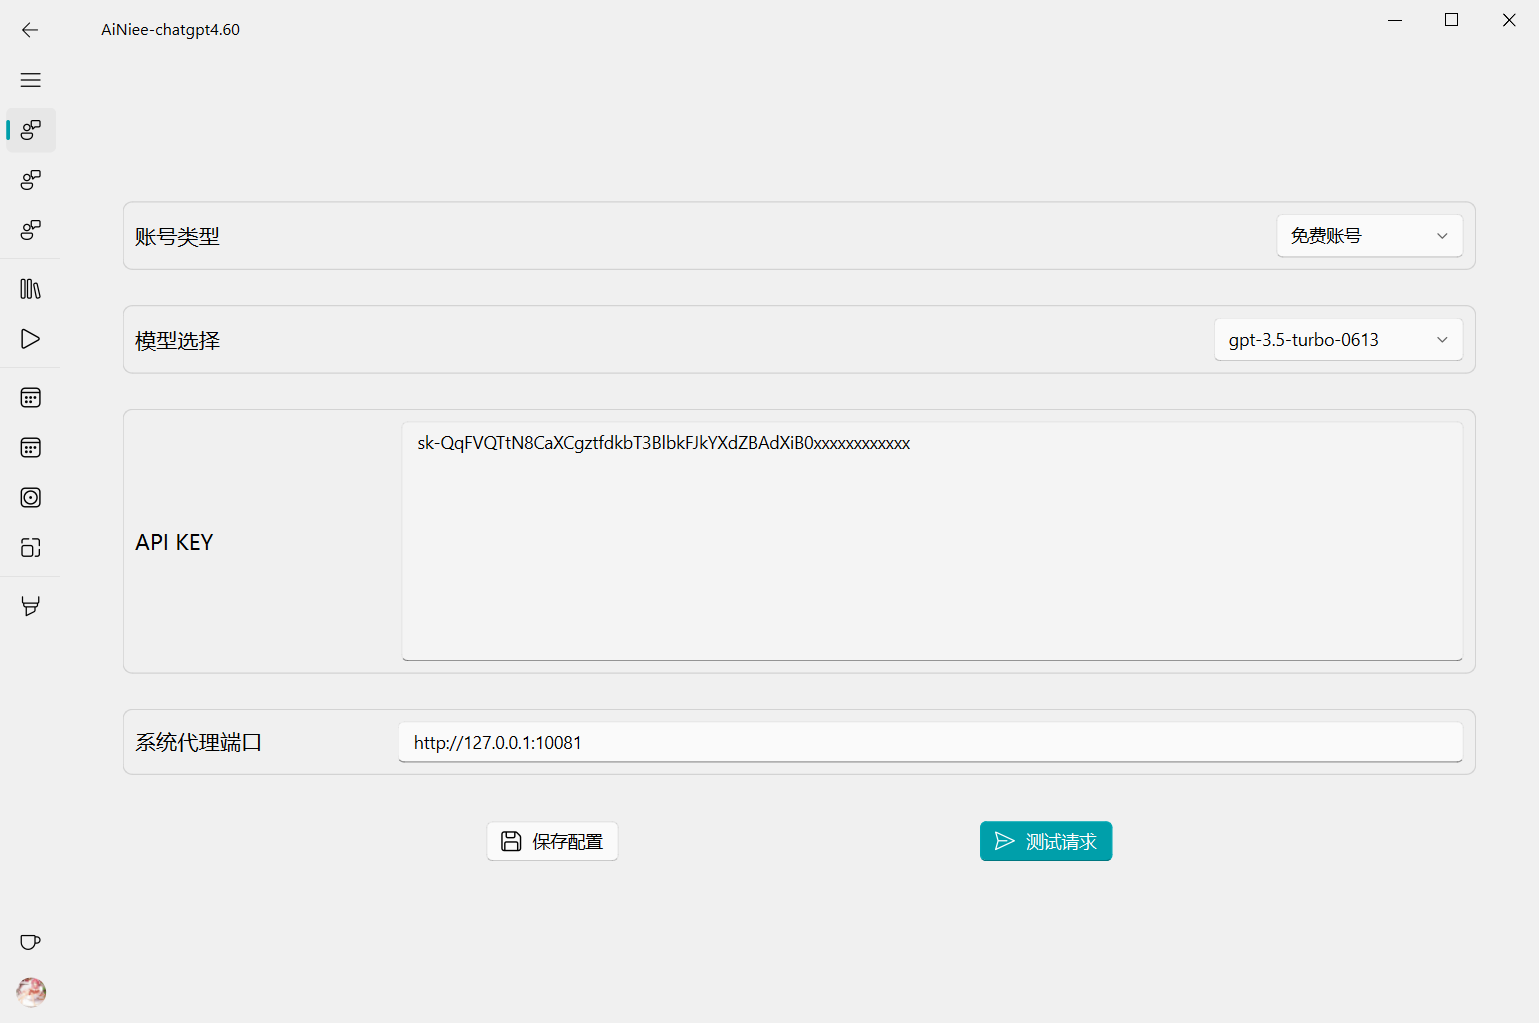
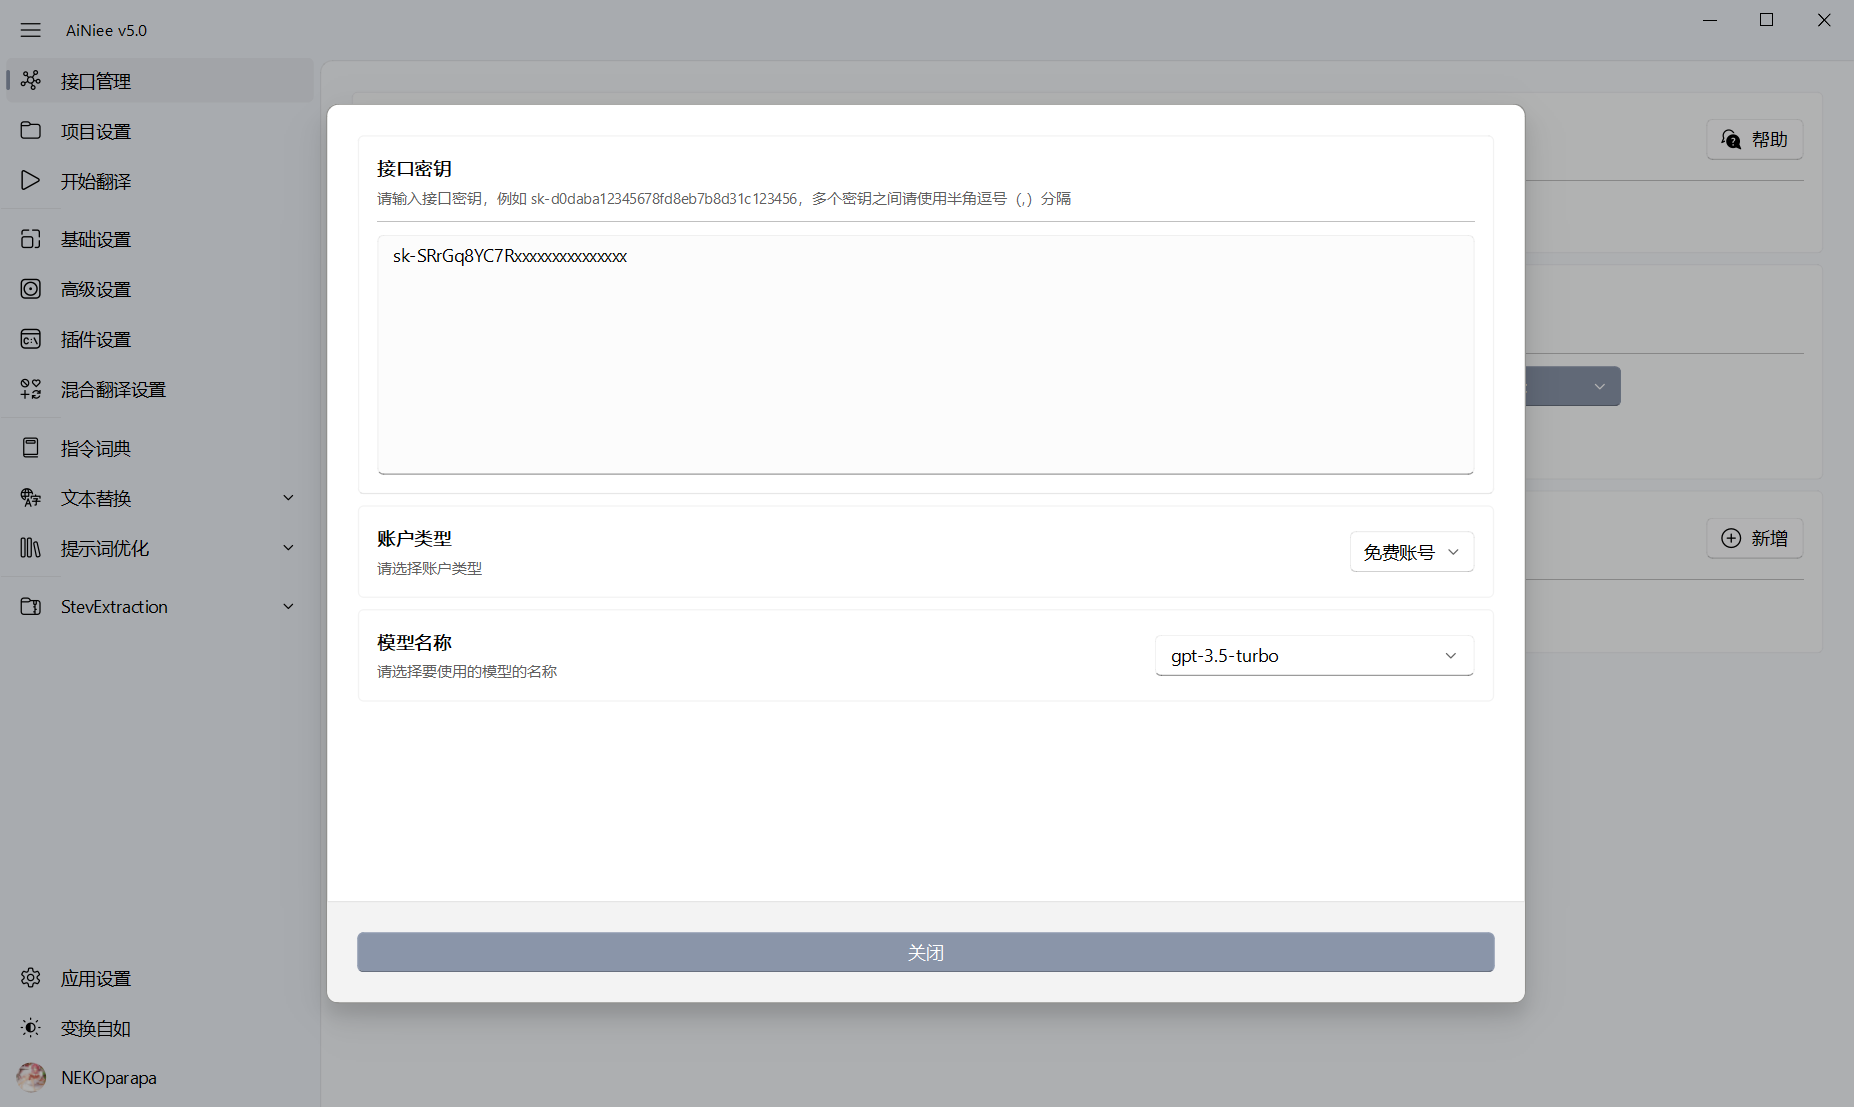
更新说明

diff --git a/README.md b/README.md
@@ -83,7 +83,7 @@
 <details>
 <summary>
 
-### 账号配置
+### 接口管理
 </summary>
 
 *  OpenAI官方配置示例:
@@ -91,16 +91,15 @@
   
     >`账号类型`: 新注册的5刀余额账号为免费账号，有各种限制，单号速度不快；付费账号是有过付费记录，且达到一些条件才会升级<br>
   
-    > `模型选择`: 默认是GPT3.5模型，请自行了解模型之间的区别后再进行更改。<br>
+    > `模型选择`: 请自行了解模型之间的区别后再进行更改。<br>
   
     >`API KEY`: 填入由OpenAi账号生成的api_key<br>
   
-    >`代理端口`: 可以不输入,如果需要设置代理时,再则填入http://<代理ip>:<代理端口>,示例：`http://127.0.0.1:10081`<br>
 
 *  代理平台配置示例:
     > <img src="https://raw.githubusercontent.com/NEKOparapa/AiNiee-chatgpt/main/Example%20image/代理账号设置.png" width="600" height="400"><br> 
     
-    >`请求地址`: 填入国内代理平台提供的请求地址,示例：`https://api.openai-sb.com` ,不要在后面单带一个`/`
+    >`请求地址`: 填入国内代理平台提供的请求地址,示例：`https://api.XXXXX.com` ,不要在后面单带一个`/`
 
     >`自动补全`: 会在上面输入的请求地址自动补全“v1”
     
@@ -110,7 +109,6 @@
 
     >`API KEY`: 填入国内代理平台给你生成的API KEY<br>
 
-    >`代理端口`: 可以不输入,如果需要设置代理时,再则填入http://<代理ip>:<代理端口>,示例：`http://127.0.0.1:10081`<br>
 
     > <img src="https://raw.githubusercontent.com/NEKOparapa/AiNiee-chatgpt/main/Example%20image/代理账号速率价格设置.png" width="600" height="400"><br> 
 
@@ -120,9 +118,6 @@
   
     >`每分钟tokens数`: TPM (tokens per minute)每分钟向openai发送的tokens总数（类似字符总数）
 
-    >`请求输入价格`: 根据代理平台设定的价格进行设置，单位是每1k tokens
-    
-    >`回复输出价格`: 根据代理平台设定的价格进行设置，单位是每1k tokens
 
 *  SakuraLLM配置:
     > <img src="https://raw.githubusercontent.com/NEKOparapa/AiNiee-chatgpt/main/Example%20image/Sakura/SakuraLLM.png" width="600" height="400"><br>
@@ -136,33 +131,36 @@
 <details>
 <summary> 
 
-### 翻译配置
+### 项目设置
 </summary>
 
 *   配置示例:<br>
 
     ><img src="https://raw.githubusercontent.com/NEKOparapa/AiNiee-chatgpt/main/Example%20image/翻译设置/基础设置.png" width="600" height="400"><br>
     
-    >`翻译项目`: 需要翻译的原文文件<br>
+    >`项目类型`: 需要翻译的原文文件<br>
 
-    >`翻译平台`: 翻译文本时希望使用的平台<br>
+    >`接口名称`: 翻译文本时希望使用的平台<br>
 
-    >`文本源语言`: 根据你需要翻译游戏的语言选择相应的源语言<br>
+    >`原文语言`: 根据你需要翻译游戏的语言选择相应的源语言<br>
 
-    >`文本目标语言`: 你希望翻译成的语言<br>
+    >`译文语言`: 你希望翻译成的语言<br>
   
     >`输入文件夹`: 选择你需要翻译的原文文件,把原文尽量放在一个干净的文件夹内，文件夹内没有其他文件，因为会读取该文件夹内所有相关的文件，包括子文件<br>
   
     >`输出文件夹`: 选择翻译后文件的存储文件夹，请不要和输入文件夹一个路径<br>
 
+    >`自动备份缓存文件`: 会自动备份缓存文件到输出文件夹，高并发情况下会影响速度<br>
 
     ><img src="https://raw.githubusercontent.com/NEKOparapa/AiNiee-chatgpt/main/Example%20image/翻译设置/任务设置.png" width="600" height="400"><br>
 
-    >`每次翻译行数`: 每次请求翻译的文本行数。行数设置越大,整体的翻译效果会更好,上下文更加流畅,但每次请求回复速度会越慢,回复的内容越容易出错，请根据模型类型来进行设置。<br>
+    >`行数切分模式`: 每次请求翻译的文本行数。行数设置越大,整体的翻译效果会更好,上下文更加流畅,但每次请求回复速度会越慢,回复的内容越容易出错，请根据模型类型来进行设置。<br>
 
-    >`每次翻译tokens数`: 每次请求翻译的文本tokens数，整体效果和行数模式差不多，只不过这个可以更加精确控制发送的大小，从而提高效率<br>
+    >`tokens数切分模式`: 每次请求翻译的文本tokens数，整体效果和行数模式差不多，只不过这个可以更加精确控制发送的大小，从而提高效率<br>
 
-    >`最大线程数`: 请根据翻译平台的速率进行设置，线程数越大，越容易吃满速率限制，翻译速度越快。多出的线程数不会影响翻译，但会增加电脑性能消耗<br>
+    >`翻译任务并发数`: 请根据翻译平台的速率进行设置，线程数越大，越容易吃满速率限制，翻译速度越快。多出的线程数不会影响翻译，但会增加电脑性能消耗<br>
+
+    >`携带上文行数`: 弱小的模型不建议携带上文，且不建议携带过多行数<br>
 
     >`错误重翻最大次数限制`: 就是一段文本，出现错误回复时，最多允许重复翻译的次数<br>  
     
@@ -177,9 +175,10 @@
 
     >`保留句内换行符`: 在翻译前将换行符替换成特殊字符，再进行翻译，AI仍会吞符号，不是百分百保留。<br>
 
-    >`中文字体转换`: 可以将翻译后的中文字体进行简体，繁体，香港体等待进行转换。配置文件说明，请参考 https://github.com/BYVoid/OpenCC<br>
-
     >`保留首尾非文本字符`: 主要用于T++导出的文本，该工具导出的文本带很多代码文本，可以截取处理了首尾的占位代码等，翻译了，再复原回来<br>
+
+    >`中文字形转换`: 可以将翻译后的中文字体进行简体，繁体，香港体等待进行转换。配置文件说明，请参考 https://github.com/BYVoid/OpenCC<br>
+
 
 
     ><img src="https://raw.githubusercontent.com/NEKOparapa/AiNiee-chatgpt/main/Example%20image/翻译设置/混合翻译设置.png" width="600" height="400"><br>
